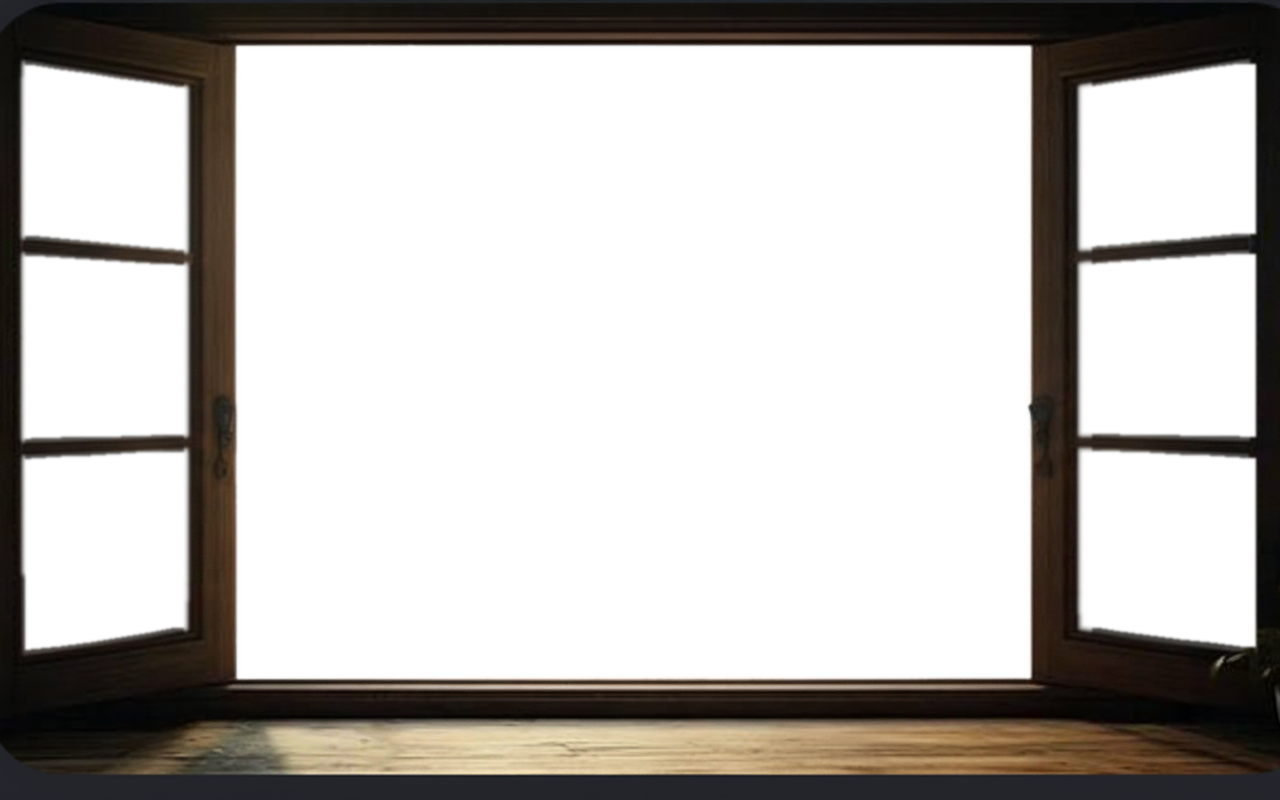
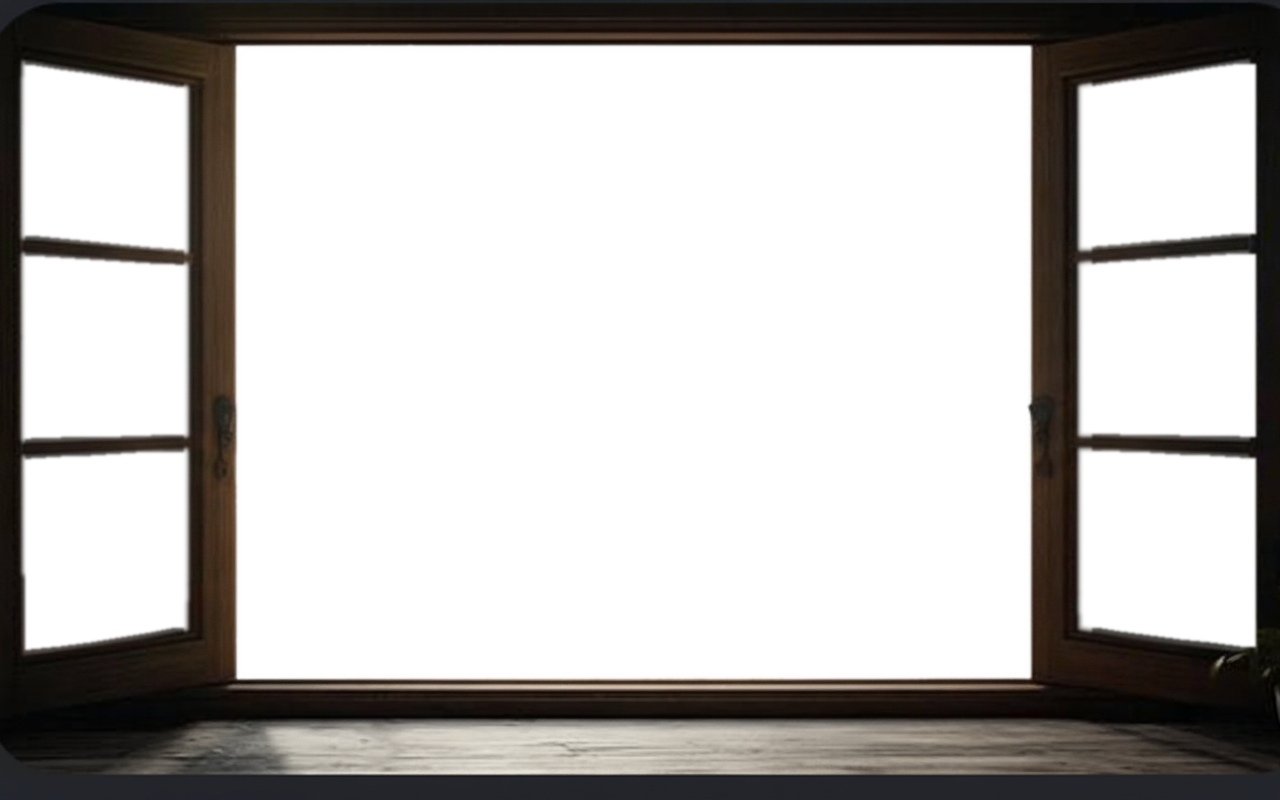
Four phone/mobile and rendering fixes
- windower: sill light now shifts to real moonlight at night (color +
  brightness driven by actual moon phase and altitude), dim through
  moonrise/set, nearly gone near new moon
- lamp: canvas now matches the photo's real proportions, removing the
  hard-edged box the old mismatched aspect ratio left around it on phones
- conometer: mobile layout switches to a portrait frame that actually
  fills the screen instead of a small landscape rectangle
- all pieces: back-link text gets a subtle shadow for legibility against
  busy/bright backgrounds (galileo, conometer, acorn especially)

Changed region(s): [[0.2188, 0.9062, 0.9375, 0.9688], [0.1562, 0.9062, 0.1875, 0.9375]]

diff --git a/windower.html b/windower.html
@@ -92,6 +92,31 @@
     z-index:10;
   }
 
+  /* the light patch on the sill — warm sunlight by day, cool moonlight by night,
+     scaled by the real moon phase. Same reusable mask, tinted two ways, opacity
+     driven entirely from render(). Sized like #frame-img's own object-fit:cover
+     so the two stay in registration at any window shape. */
+  #beam-sun, #beam-moon{
+    position:absolute;
+    inset:0;
+    width:100%;
+    height:100%;
+    pointer-events:none;
+    z-index:11;
+    opacity:0;
+    mask-image:url('windower-beam-mask.png');
+    mask-size:cover;
+    mask-position:center;
+    mask-repeat:no-repeat;
+    -webkit-mask-image:url('windower-beam-mask.png');
+    -webkit-mask-size:cover;
+    -webkit-mask-position:center;
+    -webkit-mask-repeat:no-repeat;
+    transition:opacity 2s ease;
+  }
+  #beam-sun{ background:#ffe8b0; }
+  #beam-moon{ background:#cfe0ff; }
+
   #glass{
     position:relative;
     width:100%;
@@ -313,7 +338,7 @@
 </head>
 <body>
 <style>
-  #backlink{ position:fixed; top:18px; left:22px; z-index:50; color:#f2e9d8; opacity:.5; text-decoration:none; font-size:14px; letter-spacing:.04em; transition:opacity .3s ease; }
+  #backlink{ position:fixed; top:18px; left:22px; z-index:50; color:#f2e9d8; opacity:.5; text-decoration:none; font-size:14px; letter-spacing:.04em; text-shadow:0 1px 3px rgba(0,0,0,.85), 0 0 9px rgba(0,0,0,.55); transition:opacity .3s ease; }
   #backlink:hover{ opacity:.9; }
 </style>
 <a id="backlink" href="index.html">← sagne</a>
@@ -334,6 +359,8 @@
       <div id="moon-disc-wrap"><svg viewBox="0 0 100 100" id="moon-disc-svg"></svg></div>
     </div>
     <img id="frame-img" src="windower-frame.png" alt="">
+    <div id="beam-sun"></div>
+    <div id="beam-moon"></div>
   </div>
 
   <div id="chart-wrap">
@@ -454,6 +481,8 @@
     skySun: document.getElementById('sky-sun'),
     skyMoon: document.getElementById('sky-moon'),
     hills: document.getElementById('hills'),
+    beamSun: document.getElementById('beam-sun'),
+    beamMoon: document.getElementById('beam-moon'),
     moonWrap: document.getElementById('moon-disc-wrap'),
     moonSvg: document.getElementById('moon-disc-svg'),
     chart: document.getElementById('chart'),
@@ -754,6 +783,19 @@
     const saturation = (0.65 + 0.55 * dayF).toFixed(3);
     const sepia = (0.4 * warmF).toFixed(3);
     els.hills.style.filter = `brightness(${brightness}) saturate(${saturation}) sepia(${sepia})`;
+
+    // the sill light: a warm sunbeam by day, or — once the sun's down — cool
+    // moonlight scaled by the real moon phase (bright near full, all but gone
+    // near new), reusing the same day/moon factors as the hills and stars above
+    const beamSunOpacity = Math.max(0, Math.min(1, (sunAltDeg + 4) / 14));
+    // beam-specific altitude factor — a wide ramp so the moon has to climb well clear of
+    // the horizon before the beam reaches full strength, staying dim through moonrise/set
+    // the way real low-angle moonlight does; a steep gamma on the phase fraction means only
+    // a genuinely full-ish moon lights the floor plainly — a thin crescent is barely there
+    const beamMoonAlt = Math.max(0, Math.min(1, moonAltDeg / 35));
+    const beamMoonOpacity = Math.pow(illum.fraction, 1.8) * beamMoonAlt * (1 - dayF) * 0.85;
+    els.beamSun.style.opacity = beamSunOpacity;
+    els.beamMoon.style.opacity = beamMoonOpacity;
 
     els.moonWrap.classList.toggle('active', moonOnly);
     if (moonOnly){

diff --git a/lamp.html b/lamp.html
@@ -20,14 +20,17 @@
   #backlink{
     position:fixed; top:18px; left:22px; z-index:50;
     color:var(--parchment); opacity:.5; text-decoration:none;
-    font-size:14px; letter-spacing:.04em; transition:opacity .3s ease;
+    font-size:14px; letter-spacing:.04em; text-shadow:0 1px 3px rgba(0,0,0,.85), 0 0 9px rgba(0,0,0,.55); transition:opacity .3s ease;
   }
   #backlink:hover{opacity:.9;}
   #stage{
     position:absolute; inset:0;
     display:flex; align-items:center; justify-content:center;
   }
-  canvas{ width:min(90vw, 480px); height:auto; aspect-ratio:3 / 4; max-height:72vh; display:block; }
+  /* matches the photo's real proportions (848x1239) so it fills the canvas edge-to-edge —
+     a mismatched ratio here letterboxes the photo and the ambient glow shows through the
+     gap as a visible hard-edged box, which is what we're avoiding */
+  canvas{ width:min(90vw, 480px, calc(72vh * 848 / 1239)); height:auto; aspect-ratio:848 / 1239; display:block; }
 
   #dock{
     position:fixed; bottom:0; left:0; right:0;

diff --git a/conometer.html b/conometer.html
@@ -163,12 +163,16 @@
   @media (max-width:700px){
     #controls{ flex-direction:column; align-items:stretch; gap:16px; }
     #slider-wrap{ max-width:none; }
+    /* on a phone, a landscape scene at 94vw leaves the tall screen mostly empty above and
+       below it — switch to a portrait frame (matching the landing card's own proportions)
+       so it actually fills the screen; object-fit:cover on #bg-img reframes automatically */
+    #scene-wrap{ width:min(94vw, calc(74vh * 11 / 16)); aspect-ratio:11 / 16; }
   }
 </style>
 </head>
 <body>
 <style>
-  #backlink{ position:fixed; top:18px; left:22px; z-index:50; color:#f2e9d8; opacity:.5; text-decoration:none; font-size:14px; letter-spacing:.04em; transition:opacity .3s ease; }
+  #backlink{ position:fixed; top:18px; left:22px; z-index:50; color:#f2e9d8; opacity:.5; text-decoration:none; font-size:14px; letter-spacing:.04em; text-shadow:0 1px 3px rgba(0,0,0,.85), 0 0 9px rgba(0,0,0,.55); transition:opacity .3s ease; }
   #backlink:hover{ opacity:.9; }
 </style>
 <a id="backlink" href="index.html">← sagne</a>

diff --git a/acorn.html b/acorn.html
@@ -20,7 +20,7 @@
   #backlink{
     position:fixed; top:18px; left:22px; z-index:50;
     color:var(--parchment); opacity:.5; text-decoration:none;
-    font-size:14px; letter-spacing:.04em; transition:opacity .3s ease;
+    font-size:14px; letter-spacing:.04em; text-shadow:0 1px 3px rgba(0,0,0,.85), 0 0 9px rgba(0,0,0,.55); transition:opacity .3s ease;
   }
   #backlink:hover{opacity:.9;}
 

diff --git a/ant.html b/ant.html
@@ -19,7 +19,7 @@
   #backlink{
     position:fixed; top:18px; left:22px; z-index:50;
     color:var(--parchment); opacity:.5; text-decoration:none;
-    font-size:14px; letter-spacing:.04em; transition:opacity .3s ease;
+    font-size:14px; letter-spacing:.04em; text-shadow:0 1px 3px rgba(0,0,0,.85), 0 0 9px rgba(0,0,0,.55); transition:opacity .3s ease;
   }
   #backlink:hover{opacity:.9;}
   #hint{

diff --git a/candler.html b/candler.html
@@ -313,7 +313,7 @@
 </head>
 <body>
 
-<a href="index.html" style="position:fixed; top:18px; left:22px; z-index:50; color:var(--wax); opacity:.5; text-decoration:none; font-size:14px; letter-spacing:.04em; font-family: Georgia, serif; transition:opacity .3s ease;" onmouseover="this.style.opacity=.9" onmouseout="this.style.opacity=.5">← sagne</a>
+<a href="index.html" style="position:fixed; top:18px; left:22px; z-index:50; color:var(--wax); opacity:.5; text-decoration:none; font-size:14px; letter-spacing:.04em; font-family: Georgia, serif; text-shadow:0 1px 3px rgba(0,0,0,.85), 0 0 9px rgba(0,0,0,.55); transition:opacity .3s ease;" onmouseover="this.style.opacity=.9" onmouseout="this.style.opacity=.5">← sagne</a>
 
 <div class="stage">
   <div class="candle-wrap">

diff --git a/candler_5.html b/candler_5.html
@@ -313,7 +313,7 @@
 </head>
 <body>
 
-<a href="index.html" style="position:fixed; top:18px; left:22px; z-index:50; color:var(--wax); opacity:.5; text-decoration:none; font-size:14px; letter-spacing:.04em; font-family: Georgia, serif; transition:opacity .3s ease;" onmouseover="this.style.opacity=.9" onmouseout="this.style.opacity=.5">← sagne</a>
+<a href="index.html" style="position:fixed; top:18px; left:22px; z-index:50; color:var(--wax); opacity:.5; text-decoration:none; font-size:14px; letter-spacing:.04em; font-family: Georgia, serif; text-shadow:0 1px 3px rgba(0,0,0,.85), 0 0 9px rgba(0,0,0,.55); transition:opacity .3s ease;" onmouseover="this.style.opacity=.9" onmouseout="this.style.opacity=.5">← sagne</a>
 
 <div class="stage">
   <div class="candle-wrap">

diff --git a/crystal.html b/crystal.html
@@ -19,7 +19,7 @@
   #backlink{
     position:fixed; top:18px; left:22px; z-index:50;
     color:var(--parchment); opacity:.5; text-decoration:none;
-    font-size:14px; letter-spacing:.04em; transition:opacity .3s ease;
+    font-size:14px; letter-spacing:.04em; text-shadow:0 1px 3px rgba(0,0,0,.85), 0 0 9px rgba(0,0,0,.55); transition:opacity .3s ease;
   }
   #backlink:hover{opacity:.9;}
   #hint{

diff --git a/galileo.html b/galileo.html
@@ -80,7 +80,7 @@
 </head>
 <body>
 <style>
-  #backlink{ position:fixed; top:18px; left:22px; z-index:50; color:#f2e9d8; opacity:.5; text-decoration:none; font-size:14px; letter-spacing:.04em; transition:opacity .3s ease; }
+  #backlink{ position:fixed; top:18px; left:22px; z-index:50; color:#f2e9d8; opacity:.5; text-decoration:none; font-size:14px; letter-spacing:.04em; text-shadow:0 1px 3px rgba(0,0,0,.85), 0 0 9px rgba(0,0,0,.55); transition:opacity .3s ease; }
   #backlink:hover{ opacity:.9; }
 </style>
 <a id="backlink" href="index.html">← sagne</a>

diff --git a/gyre.html b/gyre.html
@@ -11,7 +11,7 @@
   html,body{ height:100%; margin:0; overflow:hidden;
     background: radial-gradient(ellipse at 50% 40%, var(--bg2) 0%, var(--bg1) 80%);
     font-family: Georgia, serif; color:var(--parchment); }
-  #backlink{ position:fixed; top:18px; left:22px; z-index:50; color:var(--parchment); opacity:.5; text-decoration:none; font-size:14px; letter-spacing:.04em; transition:opacity .3s ease; }
+  #backlink{ position:fixed; top:18px; left:22px; z-index:50; color:var(--parchment); opacity:.5; text-decoration:none; font-size:14px; letter-spacing:.04em; text-shadow:0 1px 3px rgba(0,0,0,.85), 0 0 9px rgba(0,0,0,.55); transition:opacity .3s ease; }
   #backlink:hover{opacity:.9;}
   canvas{ position:absolute; inset:0; width:100%; height:100%; display:block; touch-action:none; }
   #dock{ position:fixed; bottom:0; left:0; right:0; display:flex; align-items:center; justify-content:center; gap:16px;

diff --git a/rain.html b/rain.html
@@ -11,7 +11,7 @@
   html,body{ height:100%; margin:0; overflow:hidden;
     background: radial-gradient(ellipse at 50% 35%, var(--bg2) 0%, var(--bg1) 75%);
     font-family: Georgia, serif; color:var(--parchment); }
-  #backlink{ position:fixed; top:18px; left:22px; z-index:50; color:var(--parchment); opacity:.5; text-decoration:none; font-size:14px; letter-spacing:.04em; transition:opacity .3s ease; }
+  #backlink{ position:fixed; top:18px; left:22px; z-index:50; color:var(--parchment); opacity:.5; text-decoration:none; font-size:14px; letter-spacing:.04em; text-shadow:0 1px 3px rgba(0,0,0,.85), 0 0 9px rgba(0,0,0,.55); transition:opacity .3s ease; }
   #backlink:hover{opacity:.9;}
   #stage{ position:absolute; inset:0; display:flex; align-items:center; justify-content:center; }
   #paneWrap{ position:relative; width:min(70vw, 460px); height:min(88vw, 620px); max-height:64vh; border-radius:4px;

diff --git a/smoke.html b/smoke.html
@@ -10,7 +10,7 @@
   html,body{ height:100%; margin:0; overflow:hidden; background:#0b0a08; color:#e7ddc9;
     font-family:Georgia, serif; user-select:none; }
   #backlink{ position:fixed; top:18px; left:22px; z-index:50; color:#e7ddc9; opacity:.5;
-    text-decoration:none; font-size:14px; letter-spacing:.04em; transition:opacity .3s ease; }
+    text-decoration:none; font-size:14px; letter-spacing:.04em; text-shadow:0 1px 3px rgba(0,0,0,.85), 0 0 9px rgba(0,0,0,.55); transition:opacity .3s ease; }
   #backlink:hover{ opacity:.9; }
   canvas{ position:absolute; inset:0; width:100%; height:100%; display:block; touch-action:none; }
   #hint{ position:fixed; top:52px; left:0; right:0; text-align:center; font-size:13px; opacity:.35;